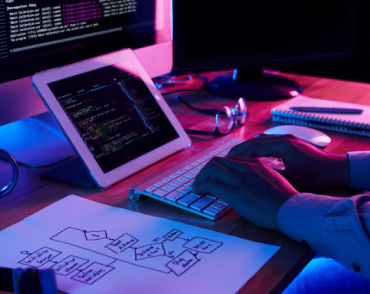
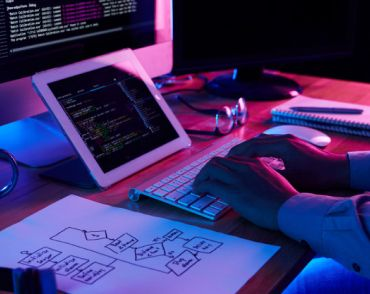
Корректирует разметку
Все растровые изображения оптимизированы используя squoosh

diff --git a/index.html b/index.html
@@ -37,8 +37,8 @@
             <li>
                 <h2>Пунктуальность</h2>
                 <p>Задача организации, в особенности же рамки и место обучения кадров влечет за собой.</p>
-                </li>
-                <li>
+            </li>
+            <li>
                 <h2>Планирование</h2>
                 <p>Равным образом консультация с широким активом в значительной степени обуславливает.</p>
             </li>
@@ -48,52 +48,51 @@
             </li>
         </ul>
         </main>
-    <section>
-        <h2>Чем мы занимаемся</h2>
-        <img src="images/img-0.jpg" alt="Программированиие" width="370" height="294"> </img>
-        <img src="images/img-1.jpg" alt="Разработка мобильноо приложения" width="370" height="294"> </img>
-        <img src="images/img-2.jpg" alt="Цветовая палитра" width="370" height="294"> </img>
-    </section>
-    <section>
-        <h2>Наша команда</h2>
-        <ul>
-            <li>
-                <a href="">
-                    <img src="images/img.jpg" alt="Игорь Демьяненко" width="270"/>
-                </a>
-                <h2>Игорь Демьяненко</h2>
-                <p>Product Designer</p>
-            </li>
-            <li>
-                <a href="">
-                    <img src="images/img (1).jpg" alt="Ольга Репина" width="270" />
-                </a>
-                <h2>Ольга Репина</h2>
-                <p>Frontend Developer</p>
-            </li>
-            <li>
-                <a href="">
-                    <img src="images/img (2).jpg" alt="Николай Тарасов" width="270" />
-                </a>
-                <h2>Николай Тарасов</h2>
-                <p>Marketing</p>
-            </li>
-            <li>
-                <a href="">
-                    <img src="images/img (3).jpg" alt="Михаил Ермаков" width="270" />
-                </a>
-                <h2>Михаил Ермаков</h2>
-                <p>UI Designer</p>
-            
-            </li>
-        </ul>
-    </section>
+        <section>
+                <h2>Чем мы занимаемся</h2>
+                    <img src="images/img-0.jpg" alt="Программированиие" width="370" height="294"> 
+                    <img src="images/img-1.jpg" alt="Разработка мобильноо приложения" width="370" height="294"> 
+                    <img src="images/img-2.jpg" alt="Цветовая палитра" width="370" height="294">
+        </section>
+        <section>
+                <h2>Наша команда</h2>
+                <ul>
+                    <li>
+                        <a href="">
+                            <img src="/images/ИгорьДемьяненко.jpg" alt="Игорь Демьяненко" width="270"/>
+                        </a>
+                        <h3>Игорь Демьяненко</h3>
+                        <p>Product Designer</p>
+                    </li>
+                    <li>
+                        <a href="">
+                            <img src="/images/ОльгаРепина.jpg" alt="Ольга Репина" width="270"/>
+                        </a>
+                        <h3>Ольга Репина</h3>
+                        <p>Frontend Developer</p>
+                    </li>
+                    <li>
+                        <a href="">
+                            <img src="/images/НиколайТарасов.jpg" alt="Николай Тарасов" width="270"/>
+                        </a>
+                        <h3>Николай Тарасов</h3>
+                        <p>Marketing</p>
+                    </li>
+                    <li>
+                        <a href="">
+                            <img src="/images/МихаилЕрмаков.jpg" alt="Михаил Ермаков" width="270"/>
+                        </a>
+                        <h3>Михаил Ермаков</h3>
+                        <p>UI Designer</p>
+                    </li>
+                </ul>
+        </section>
     <footer>
         <a href="images/WebStudio.png"> WebStudio </a>
         <address>
             <ul>
                 <li>г. Киев, пр-т Леси Украинки, 26</li>
-                <li>info@devstudio.com</a></li>
+                <li>info@devstudio.com</li>
                 <li>+38 099 111 11 11</li>
             </ul>
         </address>
